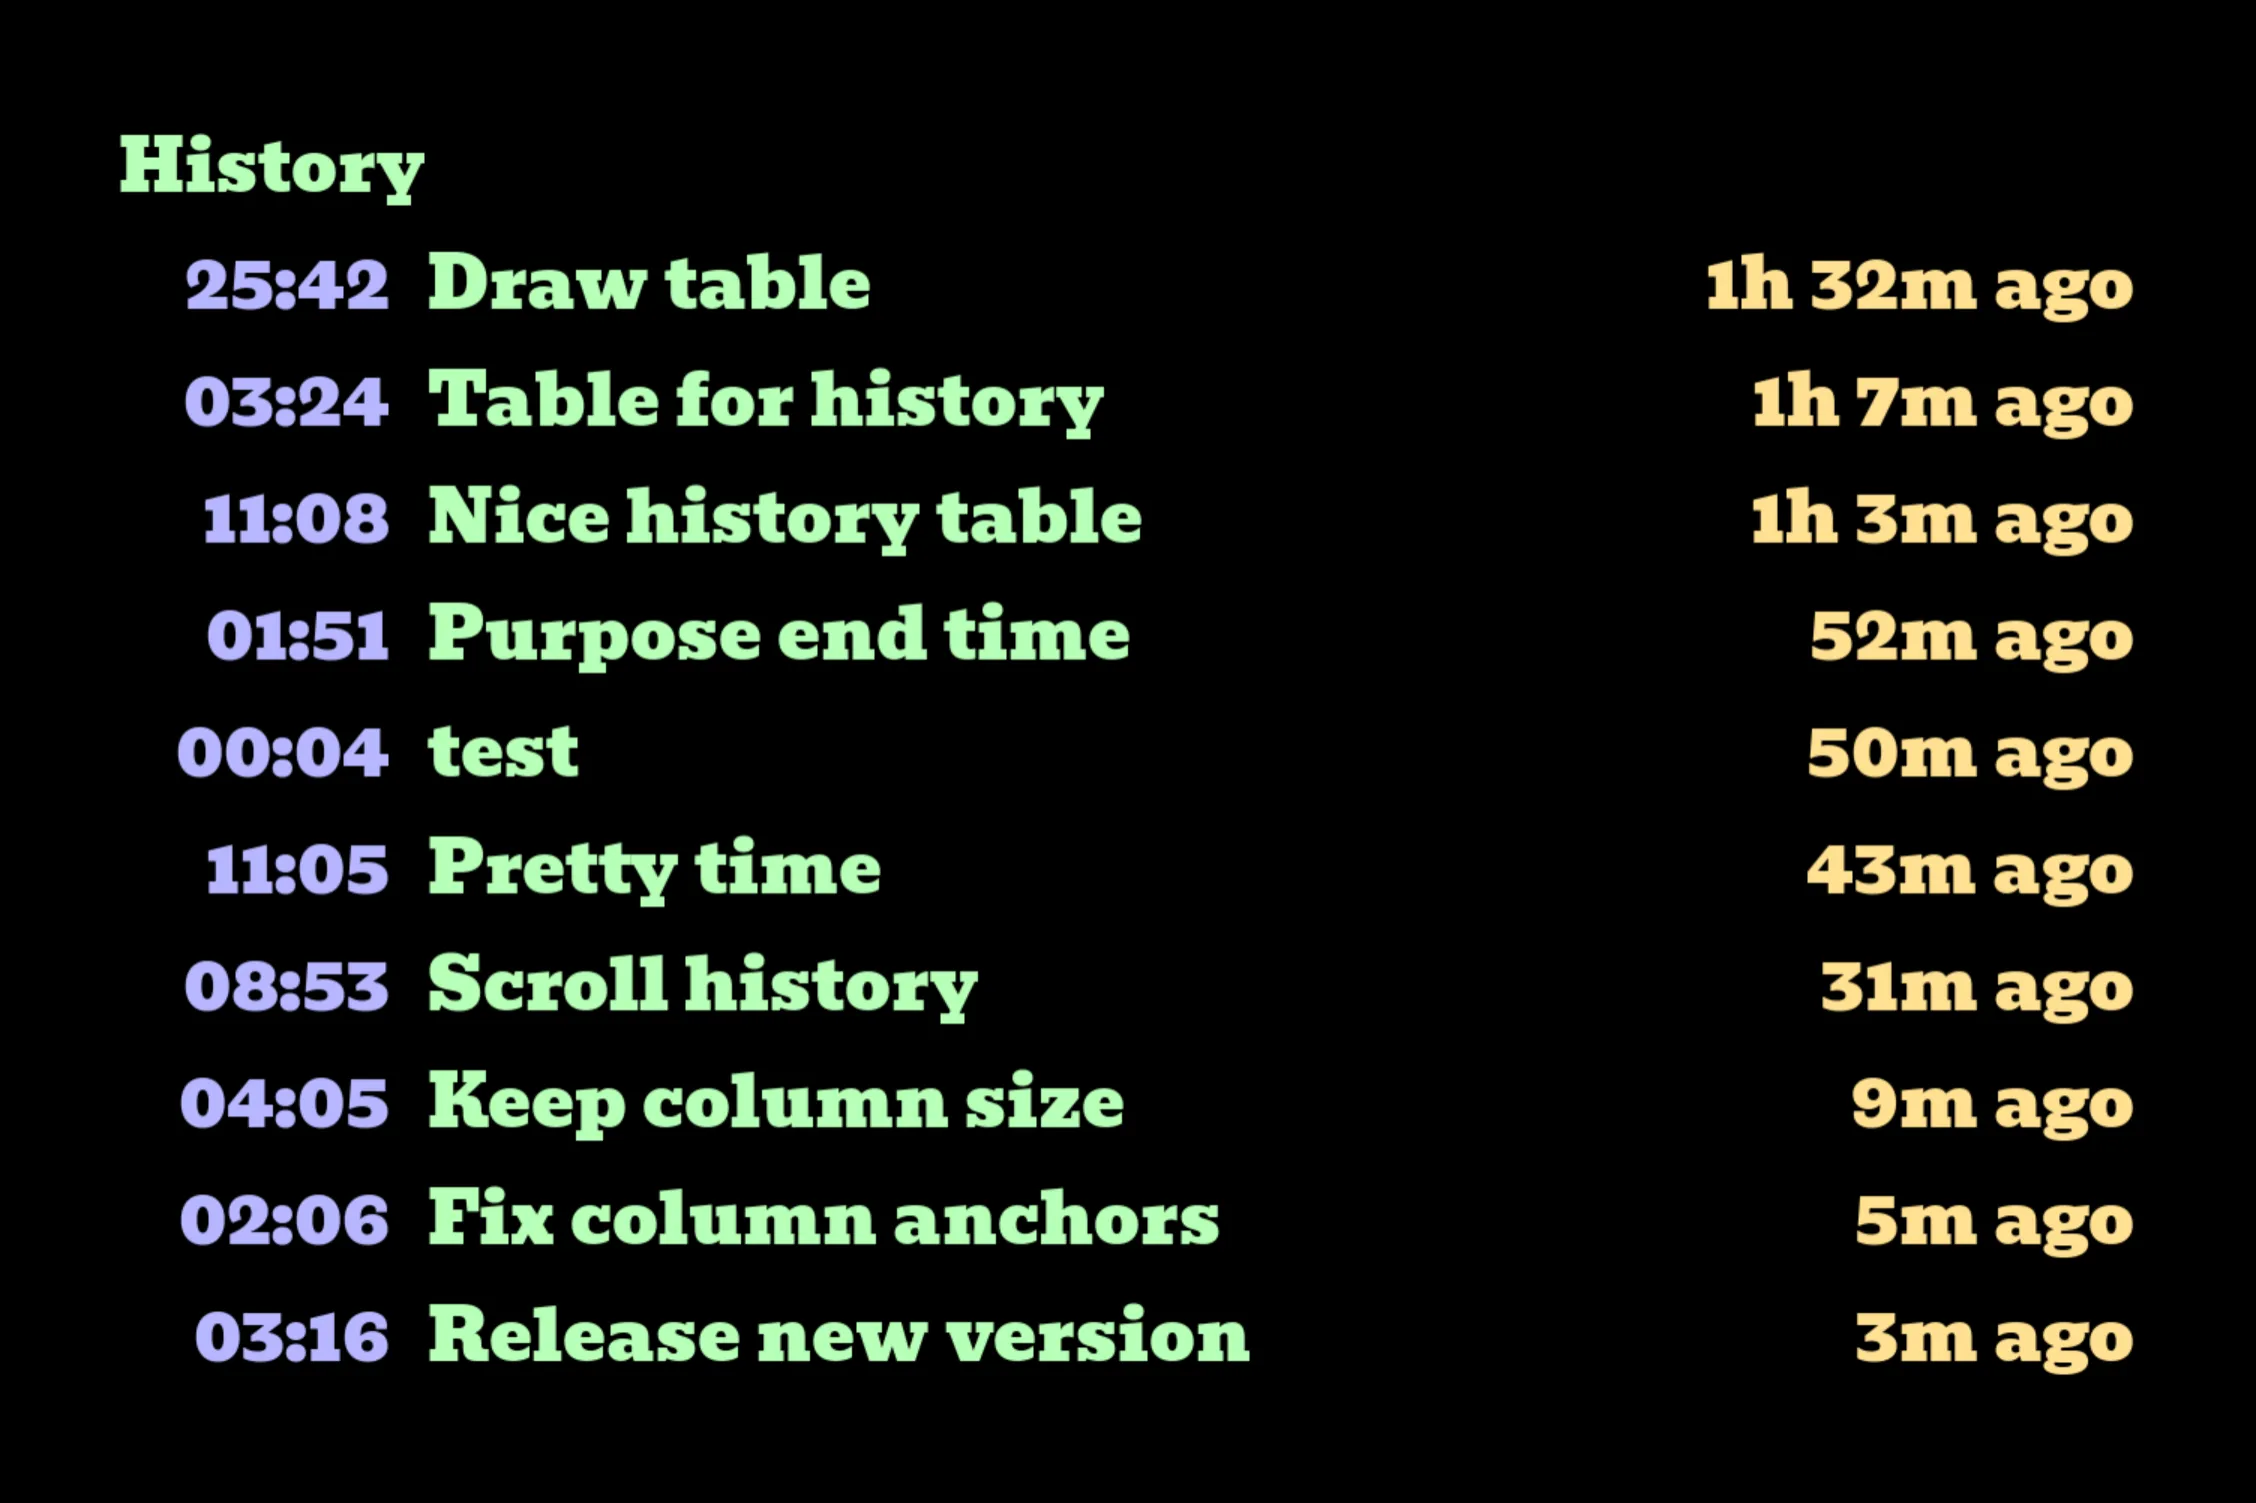
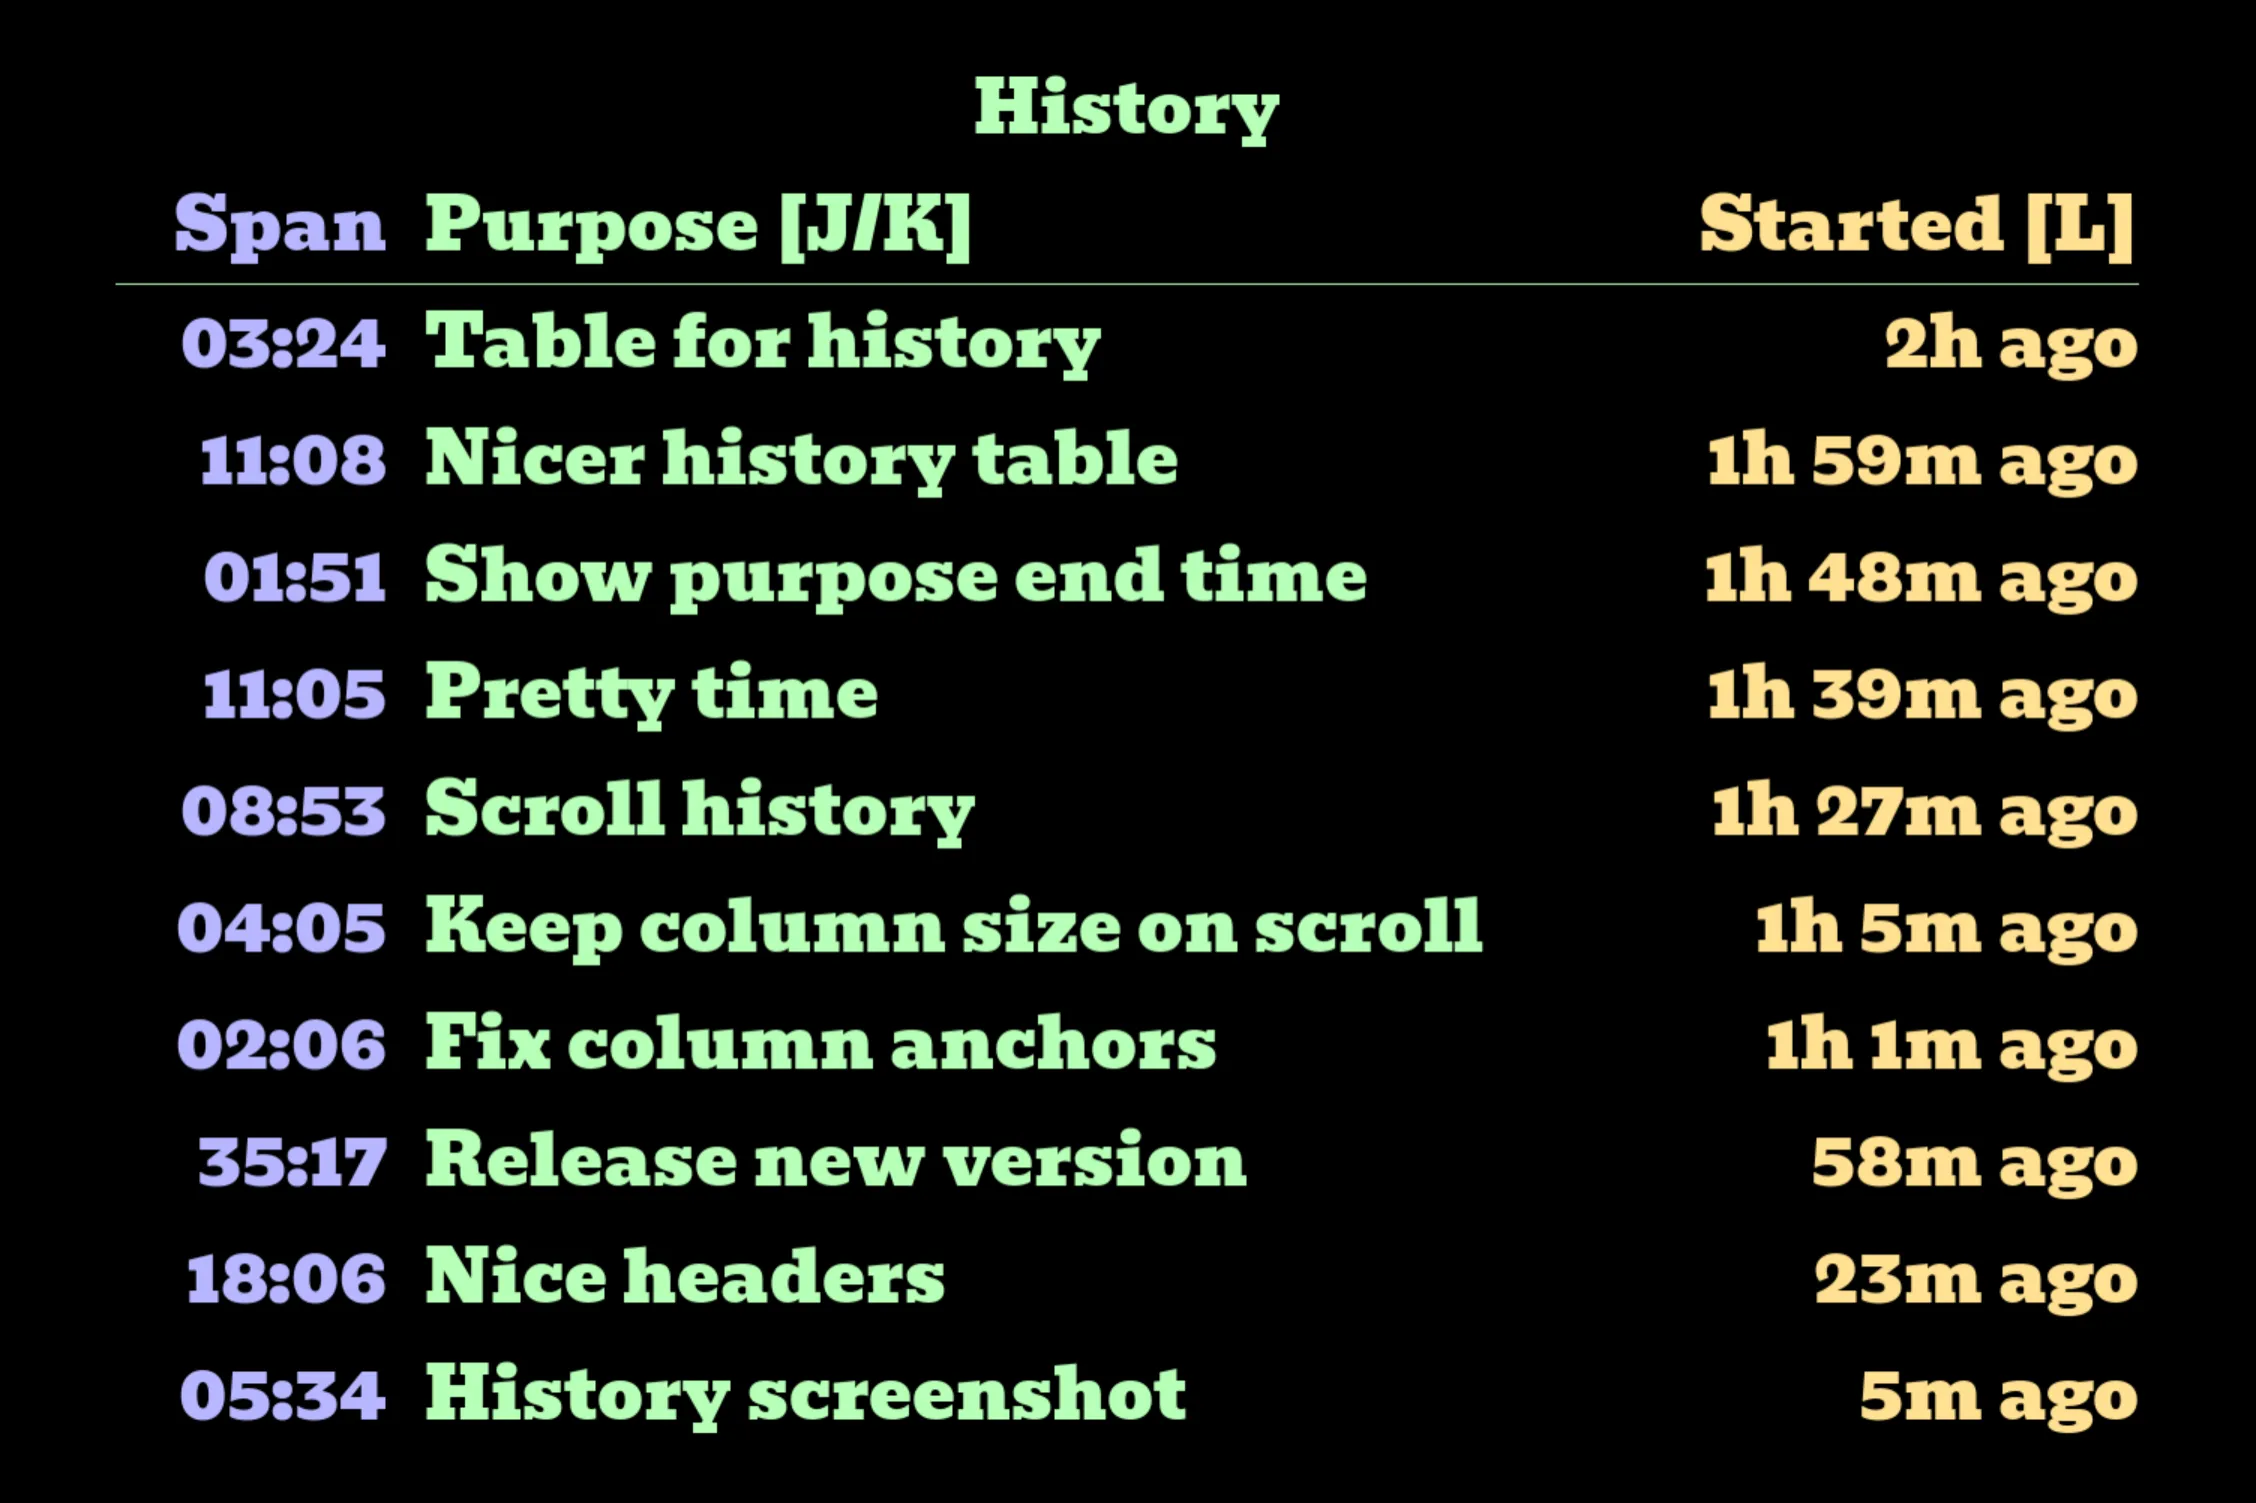
refactor: clean up code and update project version to 0.5.1
Fix always drawing header line in DFont class.
Initialize `purpose` with the last entry from `purpose_history` if available.
Update header text from "Duration" to "Span" in the main function.
Ensure the last purpose is saved as an empty string in `save_last_purpose`.
Update project version to 0.5.1 in pyproject.toml.

Changed region(s): [[0.031, 0.0918, 0.6826, 0.9488], [0.7447, 0.1224, 0.9619, 0.9488], [0.4344, 0.0306, 0.5895, 0.0918]]

diff --git a/pucoti.py b/pucoti.py
@@ -338,8 +338,6 @@ class DFont:
         assert len(color) == len(cols)
         if title_color is None:
             title_color = color[0]
-        if header_line_color is None:
-            header_line_color = color[0]
 
         # It's a bit hard to size a table, we do it by creating a dummy text
         # block that has the same size.
@@ -544,12 +542,12 @@ def main(
     last_rung = 0
     nb_rings = 0
 
-    purpose = ""
     purpose_history = [
         Purpose(**json.loads(line))
         for line in history_file.read_text().splitlines()
         if line.strip()
     ]
+    purpose = purpose_history[-1].text if purpose_history else ""
     history_lines = 10
     history_scroll = 0  # From the bottom
     show_relative_time = True
@@ -562,7 +560,7 @@ def main(
     @atexit.register
     def save_last_purpose():
         if purpose:
-            Purpose(purpose).add_to_history(history_file)
+            Purpose("").add_to_history(history_file)
 
     while True:
         last_scene = scene
@@ -681,7 +679,7 @@ def main(
             hidden_rows = rows[:first_shown] + rows[last_shown:]
             rows = rows[first_shown:last_shown]
 
-            headers = ["Duration", "Purpose [J/K]", "Started [L]"]
+            headers = ["Span", "Purpose [J/K]", "Started [L]"]
             s = normal_font.table(
                 [headers] + rows,
                 purpose_history_rect.size,
